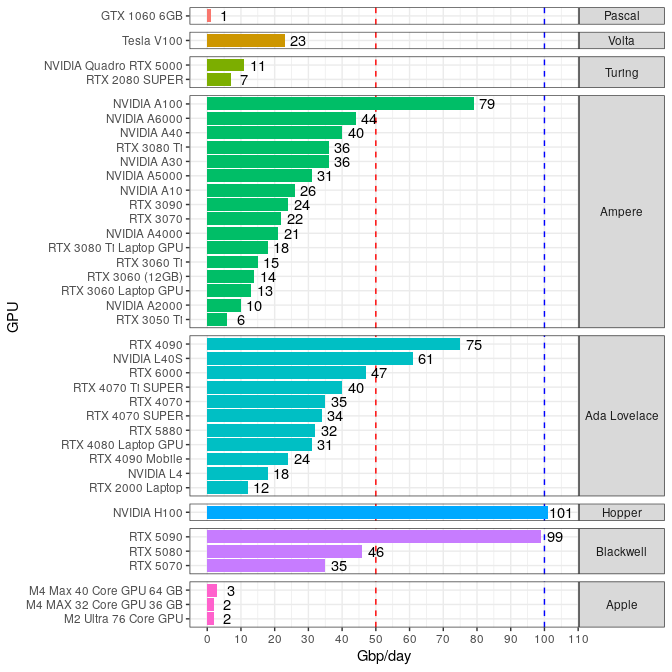
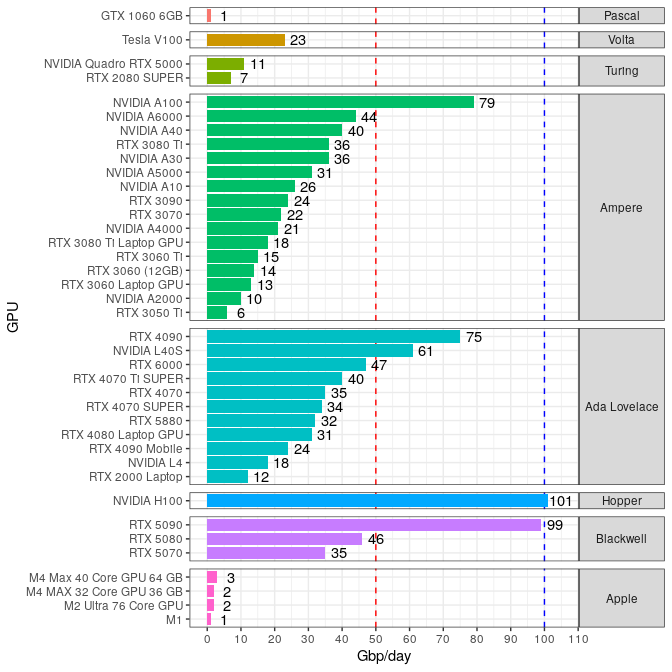
added M1

Changed region(s): [[0.0312, 0.0312, 1.0, 0.9375], [0.875, 0.5938, 1.0, 0.625], [0.9062, 0.2812, 0.9375, 0.3438]]

diff --git a/README.md b/README.md
@@ -1,7 +1,7 @@
 README
 ================
 Rasmus Kirkegaard
-28 May, 2025
+03 June, 2025
 
 ## Aim
 
